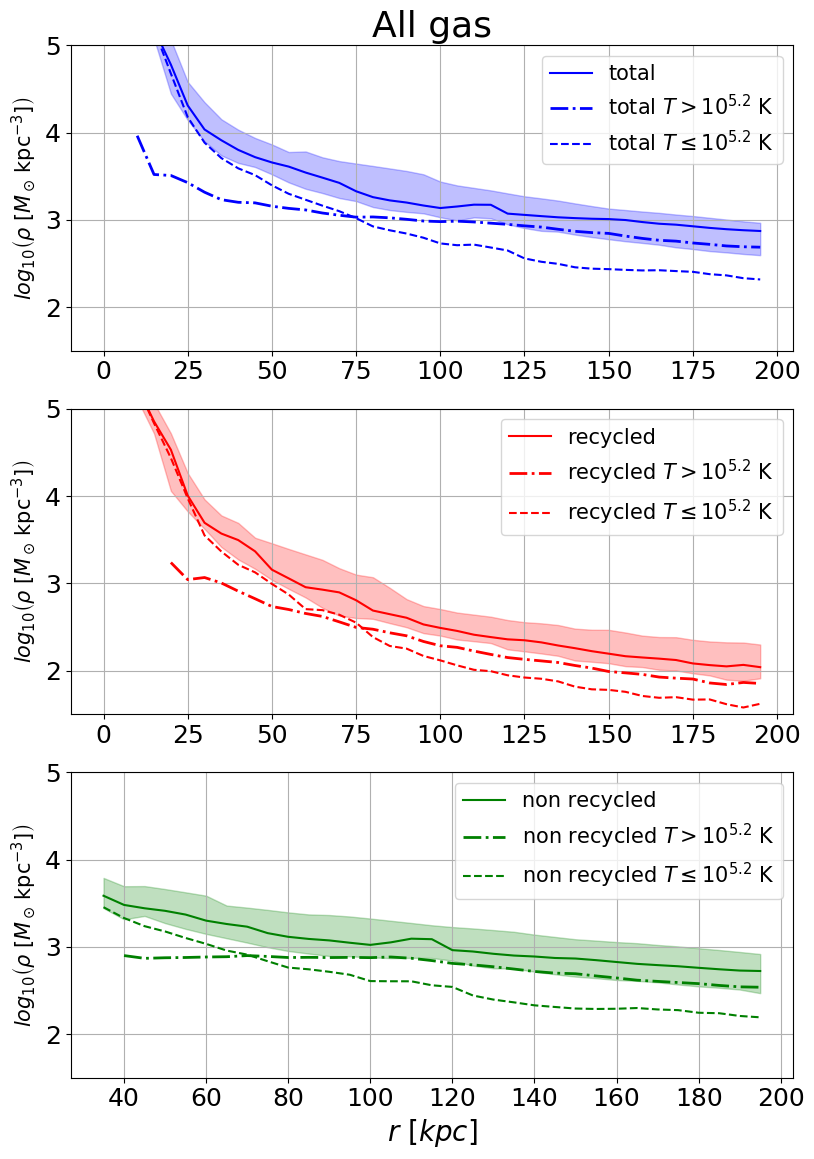
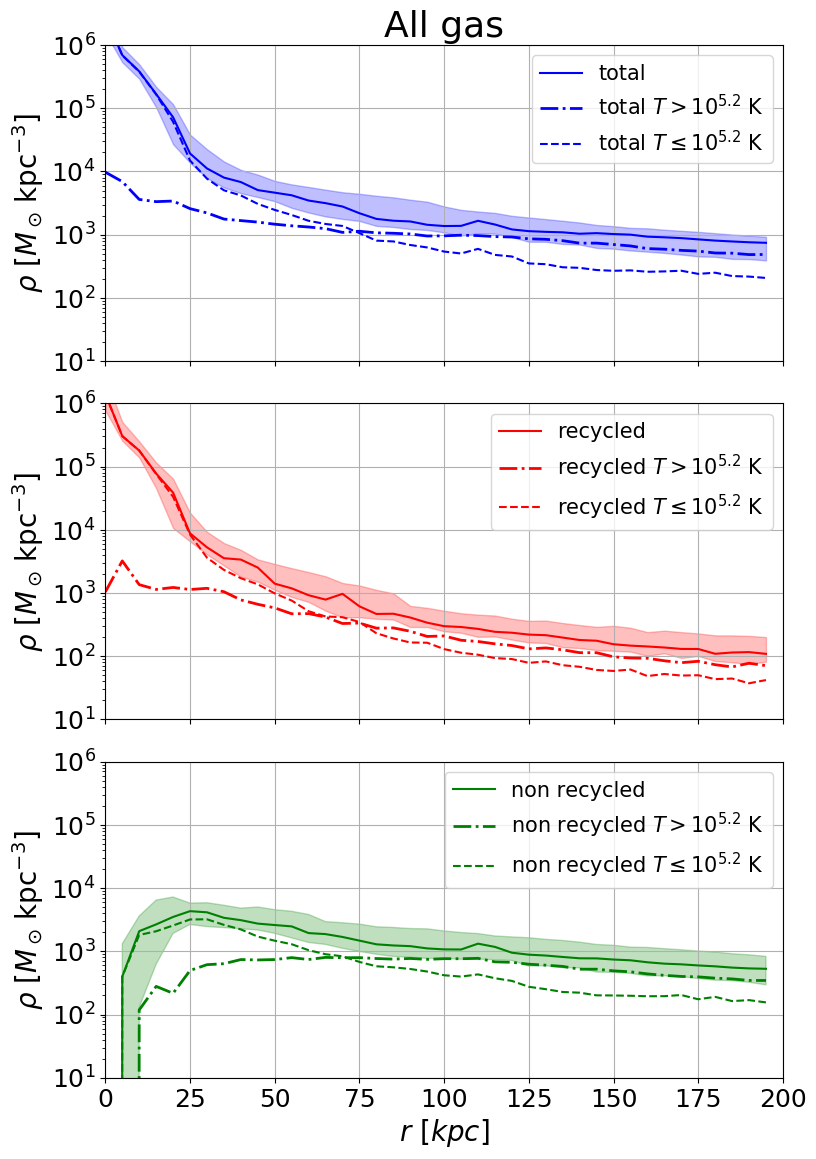
density_profiles_HI merge surface and 3D densities into one file, remove log10 and set scale to log

diff --git a/1/density_profiles_HI.py b/1/density_profiles_HI.py
@@ -18,6 +18,10 @@ profiles = np.zeros(9, dtype=object)
 HI_profiles = np.zeros(3, dtype=object)
 MgII_profiles = np.zeros(3, dtype=object)
 OVI_profiles = np.zeros(3, dtype=object)
+profiles_surface = np.zeros(9, dtype=object)
+HI_profiles_surface = np.zeros(3, dtype=object)
+MgII_profiles_surface = np.zeros(3, dtype=object)
+OVI_profiles_surface = np.zeros(3, dtype=object)
 
 for i, args in enumerate(utils.combinations):
     halo = args[0]
@@ -30,7 +34,6 @@ for i, args in enumerate(utils.combinations):
     m_nrec = s.gas['num_recycled'] == -1
     m_rec = np.max(s.gas['T_at_ejection'] > 0, axis=1)
     hot = pg.ExprMask("temp > '10**5.2 K'")
-    y_label = ''    
     
     if i == 0:
         profiles[0] = pg.analysis.profile_dens(s.gas, 'mass', r_edges=bins)
@@ -51,6 +54,24 @@ for i, args in enumerate(utils.combinations):
         OVI_profiles[0] = pg.analysis.profile_dens(s.gas, 'OVI', r_edges=bins)
         OVI_profiles[1] = pg.analysis.profile_dens(s.gas[m_rec], 'OVI', r_edges=bins)
         OVI_profiles[2] = pg.analysis.profile_dens(s.gas[m_nrec], 'OVI', r_edges=bins)
+        profiles_surface[0] = pg.analysis.profile_dens(s.gas, 'mass', r_edges=bins, proj=1)
+        profiles_surface[1] = pg.analysis.profile_dens(s.gas[hot], 'mass', r_edges=bins, proj=1)
+        profiles_surface[2] = pg.analysis.profile_dens(s.gas[~hot], 'mass', r_edges=bins, proj=1)
+        profiles_surface[3] = pg.analysis.profile_dens(s.gas[m_rec], 'mass', r_edges=bins, proj=1)
+        profiles_surface[4] = pg.analysis.profile_dens(s.gas[m_rec][hot], 'mass', r_edges=bins, proj=1)
+        profiles_surface[5] = pg.analysis.profile_dens(s.gas[m_rec][~hot], 'mass', r_edges=bins, proj=1)
+        profiles_surface[6] = pg.analysis.profile_dens(s.gas[m_nrec], 'mass', r_edges=bins, proj=1)
+        profiles_surface[7] = pg.analysis.profile_dens(s.gas[m_nrec][hot], 'mass', r_edges=bins, proj=1)
+        profiles_surface[8] = pg.analysis.profile_dens(s.gas[m_nrec][~hot], 'mass', r_edges=bins, proj=1)
+        HI_profiles_surface[0] = pg.analysis.profile_dens(s.gas, 'HI', r_edges=bins, proj=1)
+        HI_profiles_surface[1] = pg.analysis.profile_dens(s.gas[m_rec], 'HI', r_edges=bins, proj=1)
+        HI_profiles_surface[2] = pg.analysis.profile_dens(s.gas[m_nrec], 'HI', r_edges=bins, proj=1)
+        MgII_profiles_surface[0] = pg.analysis.profile_dens(s.gas, 'MgII', r_edges=bins, proj=1)
+        MgII_profiles_surface[1] = pg.analysis.profile_dens(s.gas[m_rec], 'MgII', r_edges=bins, proj=1)
+        MgII_profiles_surface[2] = pg.analysis.profile_dens(s.gas[m_nrec], 'MgII', r_edges=bins, proj=1)
+        OVI_profiles_surface[0] = pg.analysis.profile_dens(s.gas, 'OVI', r_edges=bins, proj=1)
+        OVI_profiles_surface[1] = pg.analysis.profile_dens(s.gas[m_rec], 'OVI', r_edges=bins, proj=1)
+        OVI_profiles_surface[2] = pg.analysis.profile_dens(s.gas[m_nrec], 'OVI', r_edges=bins, proj=1)
     else:
         profiles[0] = np.column_stack((profiles[0], pg.analysis.profile_dens(s.gas, 'mass', r_edges=bins)))
         profiles[1] = np.column_stack((profiles[1], pg.analysis.profile_dens(s.gas[hot], 'mass', r_edges=bins)))
@@ -70,18 +91,29 @@ for i, args in enumerate(utils.combinations):
         OVI_profiles[0] = np.column_stack((OVI_profiles[0], pg.analysis.profile_dens(s.gas, 'OVI', r_edges=bins)))
         OVI_profiles[1] = np.column_stack((OVI_profiles[1], pg.analysis.profile_dens(s.gas[m_rec], 'OVI', r_edges=bins)))
         OVI_profiles[2] = np.column_stack((OVI_profiles[2], pg.analysis.profile_dens(s.gas[m_nrec], 'OVI', r_edges=bins)))
+        profiles_surface[0] = np.column_stack((profiles_surface[0], pg.analysis.profile_dens(s.gas, 'mass', r_edges=bins, proj=1)))
+        profiles_surface[1] = np.column_stack((profiles_surface[1], pg.analysis.profile_dens(s.gas[hot], 'mass', r_edges=bins, proj=1)))
+        profiles_surface[2] = np.column_stack((profiles_surface[2], pg.analysis.profile_dens(s.gas[~hot], 'mass', r_edges=bins, proj=1)))
+        profiles_surface[3] = np.column_stack((profiles_surface[3], pg.analysis.profile_dens(s.gas[m_rec], 'mass', r_edges=bins, proj=1)))
+        profiles_surface[4] = np.column_stack((profiles_surface[4], pg.analysis.profile_dens(s.gas[m_rec][hot], 'mass', r_edges=bins, proj=1)))
+        profiles_surface[5] = np.column_stack((profiles_surface[5], pg.analysis.profile_dens(s.gas[m_rec][~hot], 'mass', r_edges=bins, proj=1)))
+        profiles_surface[6] = np.column_stack((profiles_surface[6], pg.analysis.profile_dens(s.gas[m_nrec], 'mass', r_edges=bins, proj=1)))
+        profiles_surface[7] = np.column_stack((profiles_surface[7], pg.analysis.profile_dens(s.gas[m_nrec][hot], 'mass', r_edges=bins, proj=1)))
+        profiles_surface[8] = np.column_stack((profiles_surface[8], pg.analysis.profile_dens(s.gas[m_nrec][~hot], 'mass', r_edges=bins, proj=1)))
+        HI_profiles_surface[0] = np.column_stack((HI_profiles_surface[0], pg.analysis.profile_dens(s.gas, 'HI', r_edges=bins, proj=1)))
+        HI_profiles_surface[1] = np.column_stack((HI_profiles_surface[1], pg.analysis.profile_dens(s.gas[m_rec], 'HI', r_edges=bins, proj=1)))
+        HI_profiles_surface[2] = np.column_stack((HI_profiles_surface[2], pg.analysis.profile_dens(s.gas[m_nrec], 'HI', r_edges=bins, proj=1)))
+        MgII_profiles_surface[0] = np.column_stack((MgII_profiles_surface[0], pg.analysis.profile_dens(s.gas, 'MgII', r_edges=bins, proj=1)))
+        MgII_profiles_surface[1] = np.column_stack((MgII_profiles_surface[1], pg.analysis.profile_dens(s.gas[m_rec], 'MgII', r_edges=bins, proj=1)))
+        MgII_profiles_surface[2] = np.column_stack((MgII_profiles_surface[2], pg.analysis.profile_dens(s.gas[m_nrec], 'MgII', r_edges=bins, proj=1)))
+        OVI_profiles_surface[0] = np.column_stack((OVI_profiles_surface[0], pg.analysis.profile_dens(s.gas, 'OVI', r_edges=bins, proj=1)))
+        OVI_profiles_surface[1] = np.column_stack((OVI_profiles_surface[1], pg.analysis.profile_dens(s.gas[m_rec], 'OVI', r_edges=bins, proj=1)))
+        OVI_profiles_surface[2] = np.column_stack((OVI_profiles_surface[2], pg.analysis.profile_dens(s.gas[m_nrec], 'OVI', r_edges=bins, proj=1)))
 
-y_label = pg.analysis.profile_dens(s.gas, 'mass', r_edges=bins).units.latex()
+y_label_3d = pg.analysis.profile_dens(s.gas, 'mass', r_edges=bins).units.latex()
+y_label_2d = pg.analysis.profile_dens(s.gas, 'mass', r_edges=bins, proj=1).units.latex()
 
-# log and smooth
-for i, item in enumerate(profiles):
-    for j in range(item.shape[1]):
-        profiles[i][:, j] = signal.savgol_filter(np.log10(profiles[i][:, j]), 5, 3)
-        if i < 3:
-            HI_profiles[i][:, j] = signal.savgol_filter(np.log10(HI_profiles[i][:, j]), 5, 3)
-            MgII_profiles[i][:, j] = signal.savgol_filter(np.log10(MgII_profiles[i][:, j]), 5, 3)
-            OVI_profiles[i][:, j] = signal.savgol_filter(np.log10(OVI_profiles[i][:, j]), 5, 3)
-
+# 3D density plots
 f = plt.figure(figsize=utils.figsize[::-1] * 2)
 gs = gridspec.GridSpec(3, 4)
 ax1 = plt.subplot(gs[:-1, 0])
@@ -93,22 +125,24 @@ ax6 = plt.subplot(gs[-1, 2])
 ax7 = plt.subplot(gs[:-1, 3])
 ax8 = plt.subplot(gs[-1, 3])
 
-ax1.set_ylabel(r'$log_{10}\left(\rho\ [%s]\right)$' % y_label, fontsize=44)
-ax2.set_ylabel(r'$\rho_{non\ recycled}/\rho_{recycled}$', fontsize=44)
-
+#ax1.set_ylabel(r'$log_{10}\left(\rho\ [%s]\right)$' % y_label_3d, fontsize=44)
+ax1.set_ylabel(r'$\rho\ [%s]$' % y_label_3d, fontsize=30)
+ax2.set_ylabel(r'$\rho_{non\ recycled}/\rho_{recycled}$', fontsize=28)
 
 for a in (ax1, ax3, ax5, ax7):
     a.tick_params(labelbottom='off')
+    a.set_yscale('log')
+    a.set_xlim((0, 200))
 for a in (ax2, ax4, ax6, ax8):
     a.set_ylim((1e-1, 1e1))
     a.set_yscale('log')
     a.plot([-200, 200], [1, 1], color='k')
     a.set_xlabel(r'$r\ [kpc]$', fontsize=44)
 
-ax1.set_ylim((-1, 7))
-ax3.set_ylim((-3, 5))
-ax5.set_ylim((-6, 2))
-ax7.set_ylim((-5, 3))
+ax1.set_ylim((1e-1, 1e7))
+ax3.set_ylim((1e-3, 1e5))
+ax5.set_ylim((1e-6, 1e2))
+ax7.set_ylim((1e-5, 1e3))
 
 ax1.set_title('All gas')
 ax3.set_title('HI')
@@ -158,10 +192,10 @@ ax7.fill_between(bins[:-1], np.percentile(OVI_profiles[1], 25, axis=1),
 ax7.fill_between(bins[:-1], np.percentile(OVI_profiles[2], 25, axis=1),
     np.percentile(OVI_profiles[2], 75, axis=1), alpha=.25, color='g')
 
-ax2.plot(bins[:-1], 10**(np.percentile(profiles[6], 50, axis=1)) / 10**(np.percentile(profiles[3], 50, axis=1)))
-ax4.plot(bins[:-1], 10**(np.percentile(HI_profiles[2], 50, axis=1)) / 10**(np.percentile(HI_profiles[1], 50, axis=1)))
-ax6.plot(bins[:-1], 10**(np.percentile(MgII_profiles[2], 50, axis=1)) / 10**(np.percentile(MgII_profiles[1], 50, axis=1)))
-ax8.plot(bins[:-1], 10**(np.percentile(OVI_profiles[2], 50, axis=1)) / 10**(np.percentile(OVI_profiles[1], 50, axis=1)))
+ax2.plot(bins[:-1], np.percentile(profiles[6], 50, axis=1) / np.percentile(profiles[3], 50, axis=1))
+ax4.plot(bins[:-1], np.percentile(HI_profiles[2], 50, axis=1) / np.percentile(HI_profiles[1], 50, axis=1))
+ax6.plot(bins[:-1], np.percentile(MgII_profiles[2], 50, axis=1) / np.percentile(MgII_profiles[1], 50, axis=1))
+ax8.plot(bins[:-1], np.percentile(OVI_profiles[2], 50, axis=1) / np.percentile(OVI_profiles[1], 50, axis=1))
 
 ax2.set_xlim(ax1.get_xlim())
 ax4.set_xlim(ax3.get_xlim())
@@ -174,10 +208,15 @@ plt.savefig(filename.split("/")[-1][:-3] + ".png", bbox_inches='tight')
 
 f, ax = plt.subplots(3, figsize=utils.figsize)
 for a in ax:
-    a.set_ylabel(r'$log_{10}\left(\rho\ [%s]\right)$' % y_label, fontsize=15)
-    a.set_ylim((1.5, 5))
+    #a.set_ylabel(r'$log_{10}\left(\rho\ [%s]\right)$' % y_label_3d, fontsize=15)
+    a.set_ylabel(r'$\rho\ [%s]$' % y_label_3d, fontsize=20)
+    a.set_yscale('log')
+    a.set_ylim((1e1, 1e6))
+    a.set_xlim((0, 200))
 ax[0].set_title('All gas')
 ax[2].set_xlabel(r'$r\ [kpc]$', fontsize=20)
+ax[0].tick_params(labelbottom='off')
+ax[1].tick_params(labelbottom='off')
 
 ax[0].plot(bins[:-1], np.percentile(profiles[0], 50, axis=1), color='b', label='total')
 ax[0].plot(bins[:-1], np.percentile(profiles[1], 50, axis=1), color='b', ls='-.', lw=2, label=r'total $T>10^{5.2}$ K')
@@ -195,11 +234,145 @@ ax[2].plot(bins[:-1], np.percentile(profiles[8], 50, axis=1), color='g', ls='das
 ax[2].fill_between(bins[:-1], np.percentile(profiles[6], 25, axis=1),
     np.percentile(profiles[6], 75, axis=1), alpha=.25, color='g')
 
-ax[0].legend(loc=1, fontsize=15)
-ax[1].legend(loc=1, fontsize=15)
-ax[2].legend(loc=1, fontsize=15)
+ax[0].legend(loc='upper right', fontsize=15)
+ax[1].legend(loc='upper right', fontsize=15)
+ax[2].legend(loc='upper right', fontsize=15)
 
 f.tight_layout()
 
 plt.savefig(filename.split("/")[-1][:-3] + "_all_gas_only.png", bbox_inches='tight')
+
+# surface plots
+f = plt.figure(figsize=utils.figsize[::-1] * 2)
+gs = gridspec.GridSpec(3, 4)
+ax1 = plt.subplot(gs[:-1, 0])
+ax2 = plt.subplot(gs[-1, 0])
+ax3 = plt.subplot(gs[:-1, 1])
+ax4 = plt.subplot(gs[-1, 1])
+ax5 = plt.subplot(gs[:-1, 2])
+ax6 = plt.subplot(gs[-1, 2])
+ax7 = plt.subplot(gs[:-1, 3])
+ax8 = plt.subplot(gs[-1, 3])
+
+#ax1.set_ylabel(r'$log_{10}\left(\Sigma\ [%s]\right)$' % y_label_2d, fontsize=44)
+ax1.set_ylabel(r'$\Sigma\ [%s]$' % y_label_2d, fontsize=30)
+ax2.set_ylabel(r'$\Sigma_{non\ recycled}/\Sigma_{recycled}$', fontsize=28)
+
+for a in (ax1, ax3, ax5, ax7):
+    a.tick_params(labelbottom='off')
+    a.set_xlim((0, 200))
+    a.set_yscale('log')
+for a in (ax2, ax4, ax6, ax8):
+    a.set_ylim((1e-1, 1e1))
+    a.set_xlim((0, 200))
+    a.set_yscale('log')
+    a.plot([0, 200], [1, 1], color='k')
+    a.set_xlabel(r'$r\ [kpc]$', fontsize=44)
+
+ax1.set_ylim((1e3, 1e11))
+ax3.set_ylim((1e-1, 1e7))
+ax5.set_ylim((1e-3, 1e5))
+ax7.set_ylim((1e-3, 1e5))
+
+ax1.set_title('All gas')
+ax3.set_title('HI')
+ax5.set_title('MgII')
+ax7.set_title('OVI')
+
+ax1.plot(bins[:-1], np.percentile(profiles_surface[0], 50, axis=1), color='b', label='total')
+ax1.plot(bins[:-1], np.percentile(profiles_surface[1], 50, axis=1), color='b', ls='-.', lw=2, label='total T>10^5.2 K')
+ax1.plot(bins[:-1], np.percentile(profiles_surface[2], 50, axis=1), color='b', ls='dashed', label='total T<=10^5.2 K')
+ax1.plot(bins[:-1], np.percentile(profiles_surface[3], 50, axis=1), color='r', label='recycled')
+ax1.plot(bins[:-1], np.percentile(profiles_surface[6], 50, axis=1), color='g', label='non recycled')
+ax1.fill_between(bins[:-1], np.percentile(profiles_surface[0], 25, axis=1),
+    np.percentile(profiles_surface[0], 75, axis=1), alpha=.25, color='b')
+ax1.fill_between(bins[:-1], np.percentile(profiles_surface[3], 25, axis=1),
+    np.percentile(profiles_surface[3], 75, axis=1), alpha=.25, color='r')
+ax1.fill_between(bins[:-1], np.percentile(profiles_surface[6], 25, axis=1),
+    np.percentile(profiles_surface[6], 75, axis=1), alpha=.25, color='g')
+ax1.legend(loc='upper right', fontsize=20)
+
+ax3.plot(bins[:-1], np.percentile(HI_profiles_surface[0], 50, axis=1), color='b', label='total')
+ax3.plot(bins[:-1], np.percentile(HI_profiles_surface[1], 50, axis=1), color='r', label='recycled')
+ax3.plot(bins[:-1], np.percentile(HI_profiles_surface[2], 50, axis=1), color='g', label='non recycled')
+ax3.fill_between(bins[:-1], np.percentile(HI_profiles_surface[0], 25, axis=1),
+    np.percentile(HI_profiles_surface[0], 75, axis=1), alpha=.25, color='b')
+ax3.fill_between(bins[:-1], np.percentile(HI_profiles_surface[1], 25, axis=1),
+    np.percentile(HI_profiles_surface[1], 75, axis=1), alpha=.25, color='r')
+ax3.fill_between(bins[:-1], np.percentile(HI_profiles_surface[2], 25, axis=1),
+    np.percentile(HI_profiles_surface[2], 75, axis=1), alpha=.25, color='g')
+
+ax5.plot(bins[:-1], np.percentile(MgII_profiles_surface[0], 50, axis=1), color='b', label='total')
+ax5.plot(bins[:-1], np.percentile(MgII_profiles_surface[1], 50, axis=1), color='r', label='recycled')
+ax5.plot(bins[:-1], np.percentile(MgII_profiles_surface[2], 50, axis=1), color='g', label='non recycled')
+ax5.fill_between(bins[:-1], np.percentile(MgII_profiles_surface[0], 25, axis=1),
+    np.percentile(MgII_profiles_surface[0], 75, axis=1), alpha=.25, color='b')
+ax5.fill_between(bins[:-1], np.percentile(MgII_profiles_surface[1], 25, axis=1),
+    np.percentile(MgII_profiles_surface[1], 75, axis=1), alpha=.25, color='r')
+ax5.fill_between(bins[:-1], np.percentile(MgII_profiles_surface[2], 25, axis=1),
+    np.percentile(MgII_profiles_surface[2], 75, axis=1), alpha=.25, color='g')
+
+ax7.plot(bins[:-1], np.percentile(OVI_profiles_surface[0], 50, axis=1), color='b', label='total')
+ax7.plot(bins[:-1], np.percentile(OVI_profiles_surface[1], 50, axis=1), color='r', label='recycled')
+ax7.plot(bins[:-1], np.percentile(OVI_profiles_surface[2], 50, axis=1), color='g', label='non recycled')
+ax7.fill_between(bins[:-1], np.percentile(OVI_profiles_surface[0], 25, axis=1),
+    np.percentile(OVI_profiles_surface[0], 75, axis=1), alpha=.25, color='b')
+ax7.fill_between(bins[:-1], np.percentile(OVI_profiles_surface[1], 25, axis=1),
+    np.percentile(OVI_profiles_surface[1], 75, axis=1), alpha=.25, color='r')
+ax7.fill_between(bins[:-1], np.percentile(OVI_profiles_surface[2], 25, axis=1),
+    np.percentile(OVI_profiles_surface[2], 75, axis=1), alpha=.25, color='g')
+
+ax2.plot(bins[:-1], np.percentile(profiles_surface[6], 50, axis=1) / np.percentile(profiles_surface[3], 50, axis=1))
+ax4.plot(bins[:-1], np.percentile(HI_profiles_surface[2], 50, axis=1) / np.percentile(HI_profiles_surface[1], 50, axis=1))
+ax6.plot(bins[:-1], np.percentile(MgII_profiles_surface[2], 50, axis=1) / np.percentile(MgII_profiles_surface[1], 50, axis=1))
+ax8.plot(bins[:-1], np.percentile(OVI_profiles_surface[2], 50, axis=1) / np.percentile(OVI_profiles_surface[1], 50, axis=1))
+
+for a in (ax1, ax3, ax5, ax7):
+    plt.setp(a.yaxis.get_majorticklabels(), fontsize=20)
+for a in (ax2, ax4, ax6, ax8):
+    plt.setp(a.yaxis.get_majorticklabels(), fontsize=20)
+    plt.setp(a.xaxis.get_majorticklabels(), fontsize=20)
+
+f.tight_layout()
+
+plt.savefig(filename.split("/")[-1][:-3] + "_surface.png", bbox_inches='tight')
+
+f, ax = plt.subplots(3, figsize=utils.figsize)
+for a in ax:
+    #a.set_ylabel(r'$log_{10}\left(\rho\ [%s]\right)$' % y_label_3d, fontsize=15)
+    a.set_ylabel(r'$\Sigma\ [%s]$' % y_label_2d, fontsize=20)
+    a.set_yscale('log')
+    a.set_ylim((1e4, 1e8))
+    a.set_xlim((0, 200))
+ax[0].set_title('All gas')
+ax[2].set_xlabel(r'$r\ [kpc]$', fontsize=20)
+ax[0].tick_params(labelbottom='off')
+ax[1].tick_params(labelbottom='off')
+
+
+ax[0].plot(bins[:-1], np.percentile(profiles_surface[0], 50, axis=1), color='b', label='total')
+ax[0].plot(bins[:-1], np.percentile(profiles_surface[1], 50, axis=1), color='b', ls='-.', lw=2, label=r'total $T>10^{5.2}$ K')
+ax[0].plot(bins[:-1], np.percentile(profiles_surface[2], 50, axis=1), color='b', ls='dashed', label=r'total $T\leq10^{5.2}$ K')
+ax[0].fill_between(bins[:-1], np.percentile(profiles_surface[0], 25, axis=1),
+    np.percentile(profiles_surface[0], 75, axis=1), alpha=.25, color='b')
+ax[1].plot(bins[:-1], np.percentile(profiles_surface[3], 50, axis=1), color='r', label='recycled')
+ax[1].plot(bins[:-1], np.percentile(profiles_surface[4], 50, axis=1), color='r', ls='-.', lw=2, label=r'recycled $T>10^{5.2}$ K')
+ax[1].plot(bins[:-1], np.percentile(profiles_surface[5], 50, axis=1), color='r', ls='dashed', label=r'recycled $T\leq10^{5.2}$ K')
+ax[1].fill_between(bins[:-1], np.percentile(profiles_surface[3], 25, axis=1),
+    np.percentile(profiles_surface[3], 75, axis=1), alpha=.25, color='r')
+ax[2].plot(bins[:-1], np.percentile(profiles_surface[6], 50, axis=1), color='g', label='non recycled')
+ax[2].plot(bins[:-1], np.percentile(profiles_surface[7], 50, axis=1), color='g', ls='-.', lw=2, label=r'non recycled $T>10^{5.2}$ K')
+ax[2].plot(bins[:-1], np.percentile(profiles_surface[8], 50, axis=1), color='g', ls='dashed', label=r'non recycled $T\leq10^{5.2}$ K')
+ax[2].fill_between(bins[:-1], np.percentile(profiles_surface[6], 25, axis=1),
+    np.percentile(profiles_surface[6], 75, axis=1), alpha=.25, color='g')
+
+ax[0].legend(loc='upper right', fontsize=15)
+ax[1].legend(loc='upper right', fontsize=15)
+ax[2].legend(loc='upper right', fontsize=15)
+
+f.tight_layout()
+
+plt.savefig(filename.split("/")[-1][:-3] + "_surface_all_gas_only.png", bbox_inches='tight')
+
+
 
